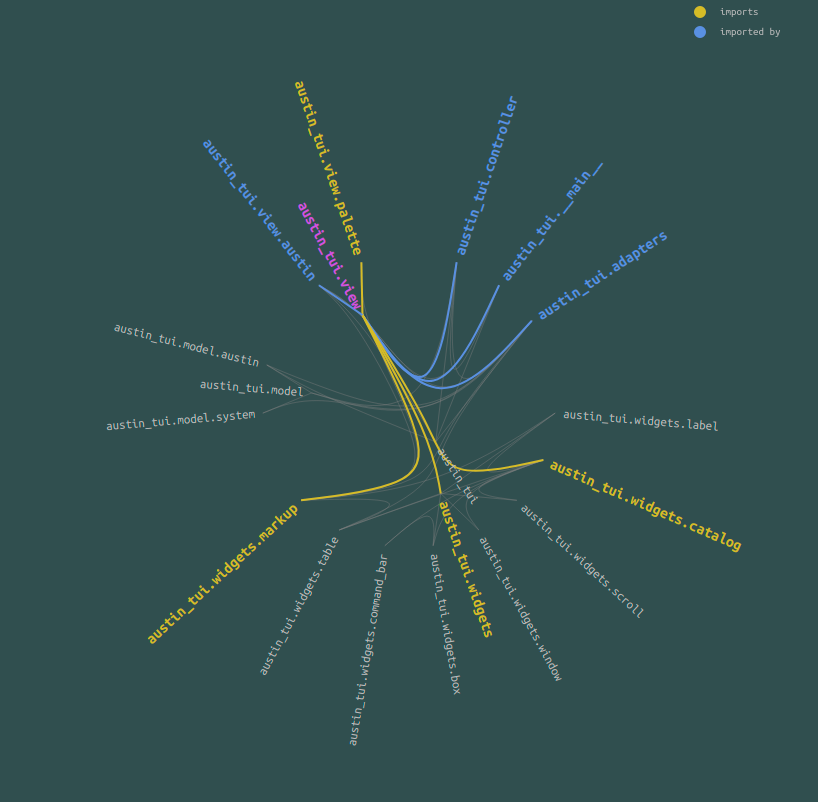
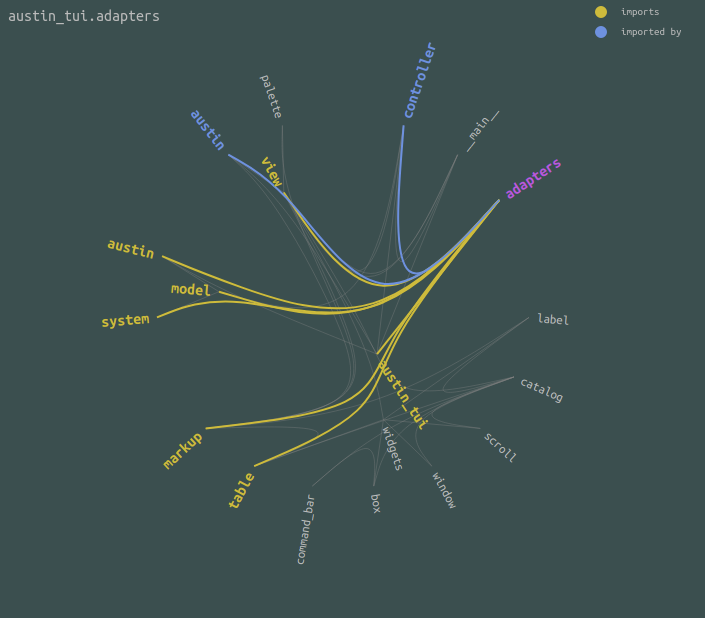
feat: reduce clutter with last component

diff --git a/src/betsy/assets/index.template.html b/src/betsy/assets/index.template.html
@@ -10,6 +10,11 @@
         fill: #bbb;
     }
 
+    #tooltip {
+        color: #bbb;
+        font: 300 16px "Ubuntu Mono", "Helvetica Neue", Helvetica, Arial, sans-serif;
+    }
+
     .node:hover {
         fill: rgb(212, 80, 224);
     }
@@ -105,6 +110,13 @@
             .attr("alignment-baseline", "middle").attr("fill", "#bbb")
             .text("imported by").style("font-size", "11px")
 
+        var tooltip = d3.select("body")
+            .append("div")
+            .attr("id", "tooltip")
+            .style("position", "fixed")
+            .style("z-index", "10")
+            .style("visibility", "hidden")
+            .text("a simple tooltip");
 
         var svg = d3.select("body").append("svg")
             .attr("id", "bundle")
@@ -158,6 +170,10 @@
             node
                 .classed("node--target", function (n) { return n.target; })
                 .classed("node--source", function (n) { return n.source; });
+
+            tooltip
+                .text(d.data.name)
+                .style("visibility", "visible");
         }
 
         function mouseouted(d) {
@@ -168,6 +184,9 @@
             node
                 .classed("node--target", false)
                 .classed("node--source", false);
+
+            tooltip
+                .style("visibility", "hidden");
         }
 
         // Lazily construct the package hierarchy from class names.
@@ -183,7 +202,8 @@
                         if (node.parent.children === undefined)
                             node.parent.children = [];
                         node.parent.children.push(node);
-                        node.key = name
+                        node.key = name.substring(i + 1);
+                        node.name = name;
                     }
                 }
                 return node;

diff --git a/src/betsy/__init__.py b/src/betsy/__init__.py
@@ -172,6 +172,10 @@ class DependencyGraph:
 
         graph.render(dest, view=True)
 
+    @property
+    def depth(self):
+        return max(_.count(".") for _ in self.data)
+
 
 def main():
     argp = ArgumentParser(
@@ -227,7 +231,7 @@ def main():
         page = INDEX_TEMPLATE.replace(
             "var classes = []", f"var classes = {graph.to_json()}"
         )
-        diameter = 600 + len(graph.data) * 4
+        diameter = 600 + max(len(graph.data) * 4, graph.depth * 160)
         page = page.replace("var diameter = 800", f"var diameter = {diameter}")
         output.write(page)
 
